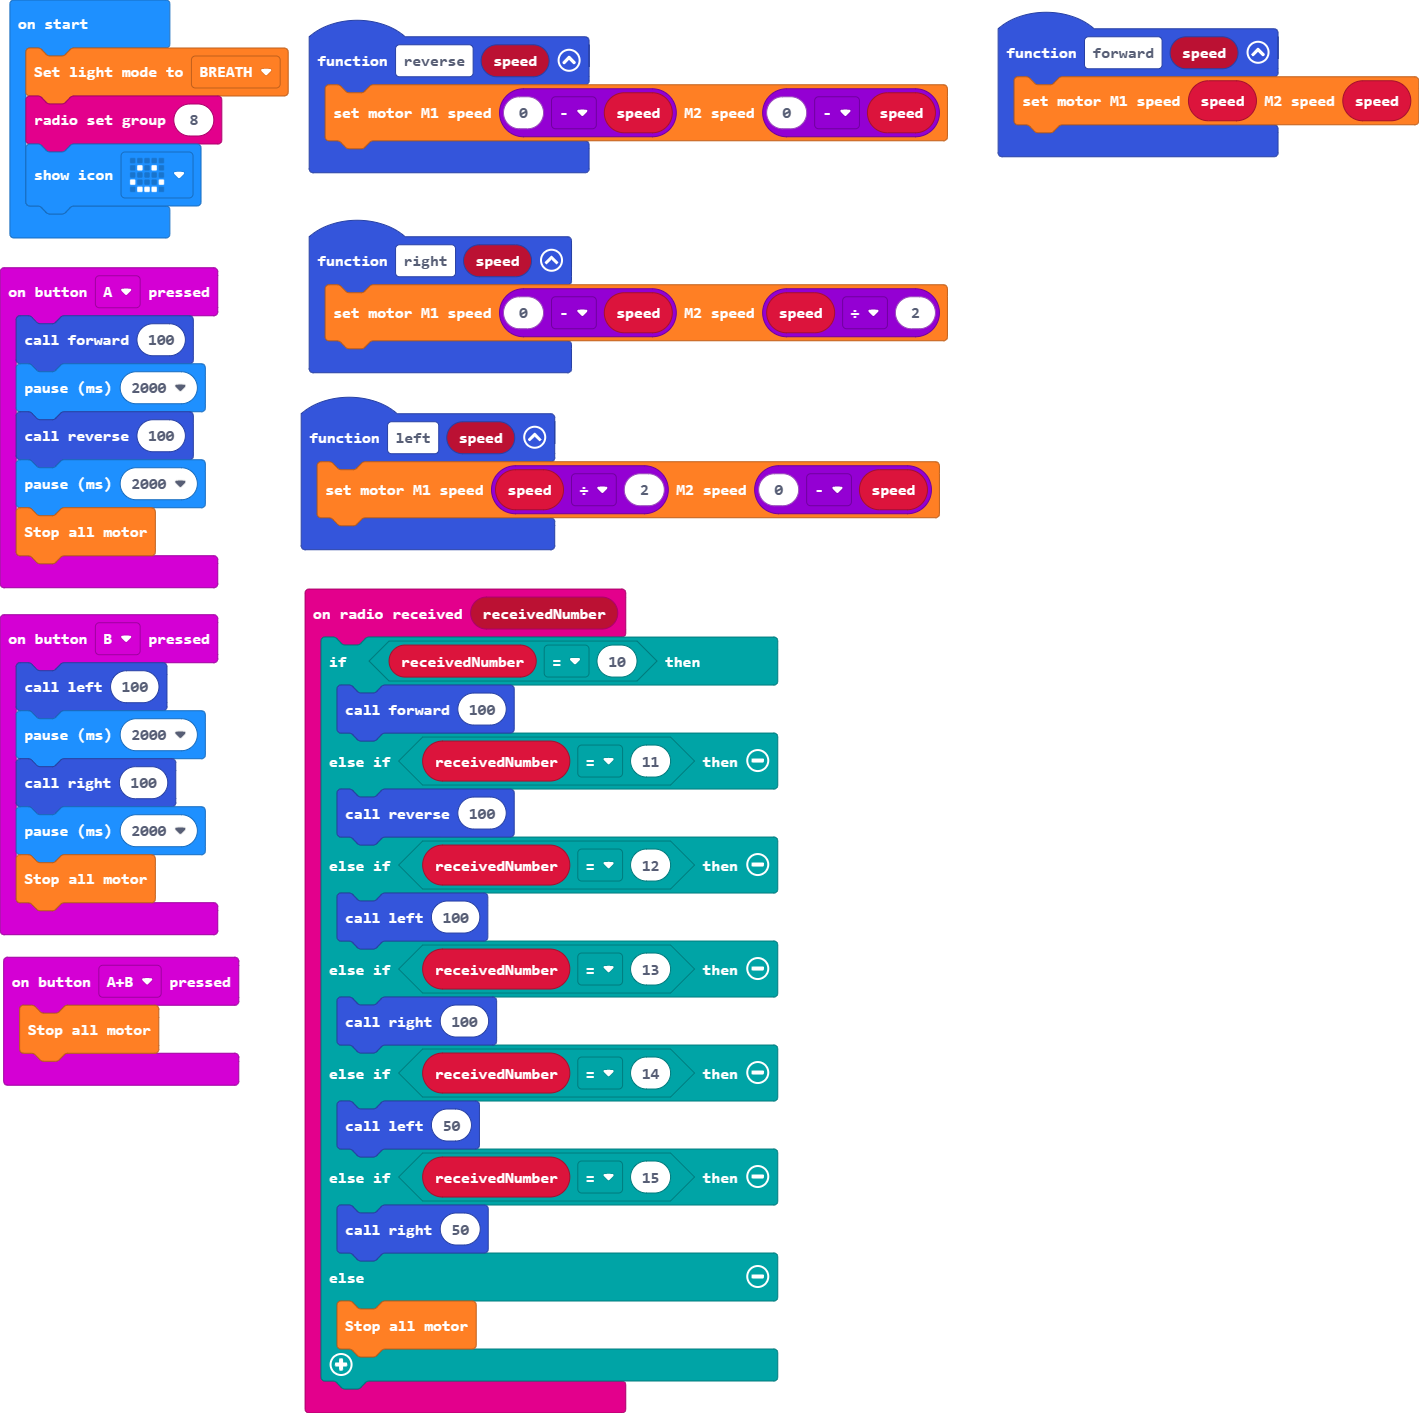
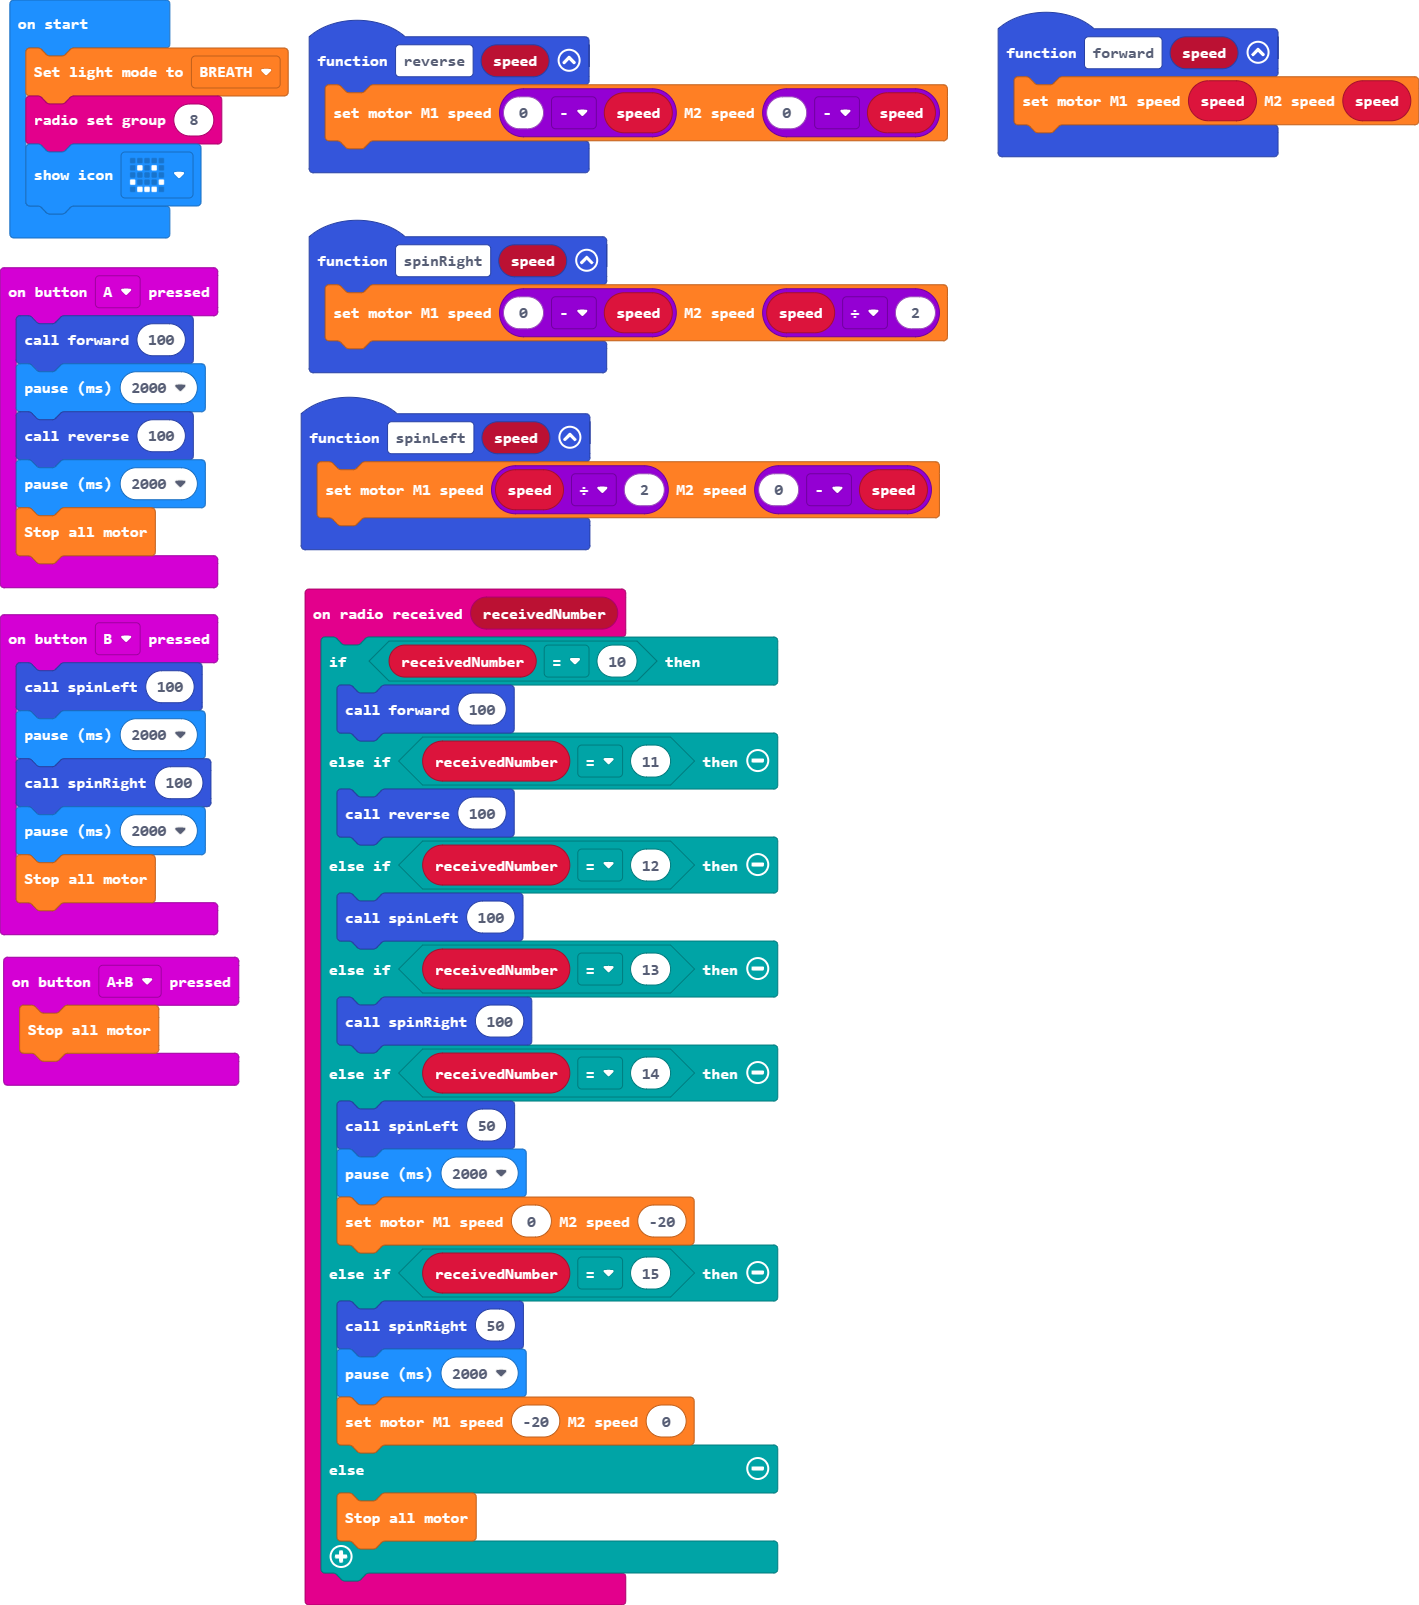
Update main.blocks, main.ts

Changed region(s): [[0.0, 0.0, 1.0, 0.9965]]

diff --git a/main.ts b/main.ts
@@ -1,26 +1,24 @@
-function right (speed: number) {
-    wuKong.setAllMotor(0 - speed, speed / 2)
-}
 radio.onReceivedNumber(function (receivedNumber) {
     if (receivedNumber == 10) {
         forward(100)
     } else if (receivedNumber == 11) {
         reverse(100)
     } else if (receivedNumber == 12) {
-        left(100)
+        spinLeft(100)
     } else if (receivedNumber == 13) {
-        right(100)
+        spinRight(100)
     } else if (receivedNumber == 14) {
-        left(50)
+        spinLeft(50)
+        basic.pause(2000)
+        wuKong.setAllMotor(0, -20)
     } else if (receivedNumber == 15) {
-        right(50)
+        spinRight(50)
+        basic.pause(2000)
+        wuKong.setAllMotor(-20, 0)
     } else {
         wuKong.stopAllMotor()
     }
 })
-function left (speed: number) {
-    wuKong.setAllMotor(speed / 2, 0 - speed)
-}
 input.onButtonPressed(Button.A, function () {
     forward(100)
     basic.pause(2000)
@@ -28,6 +26,9 @@ input.onButtonPressed(Button.A, function () {
     basic.pause(2000)
     wuKong.stopAllMotor()
 })
+function spinLeft (speed: number) {
+    wuKong.setAllMotor(speed / 2, 0 - speed)
+}
 function reverse (speed: number) {
     wuKong.setAllMotor(0 - speed, 0 - speed)
 }
@@ -35,12 +36,15 @@ input.onButtonPressed(Button.AB, function () {
     wuKong.stopAllMotor()
 })
 input.onButtonPressed(Button.B, function () {
-    left(100)
+    spinLeft(100)
     basic.pause(2000)
-    right(100)
+    spinRight(100)
     basic.pause(2000)
     wuKong.stopAllMotor()
 })
+function spinRight (speed: number) {
+    wuKong.setAllMotor(0 - speed, speed / 2)
+}
 function forward (speed: number) {
     wuKong.setAllMotor(speed, speed)
 }
